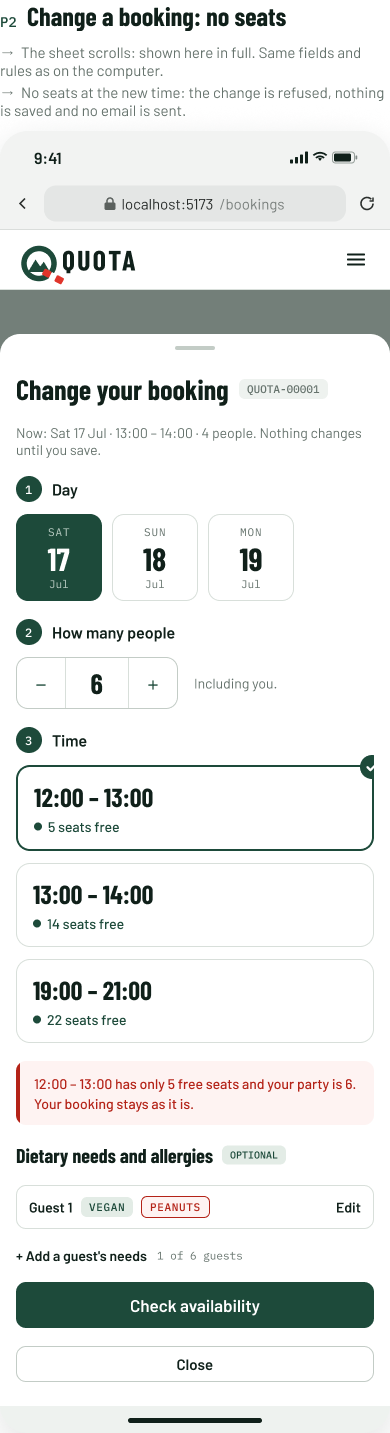
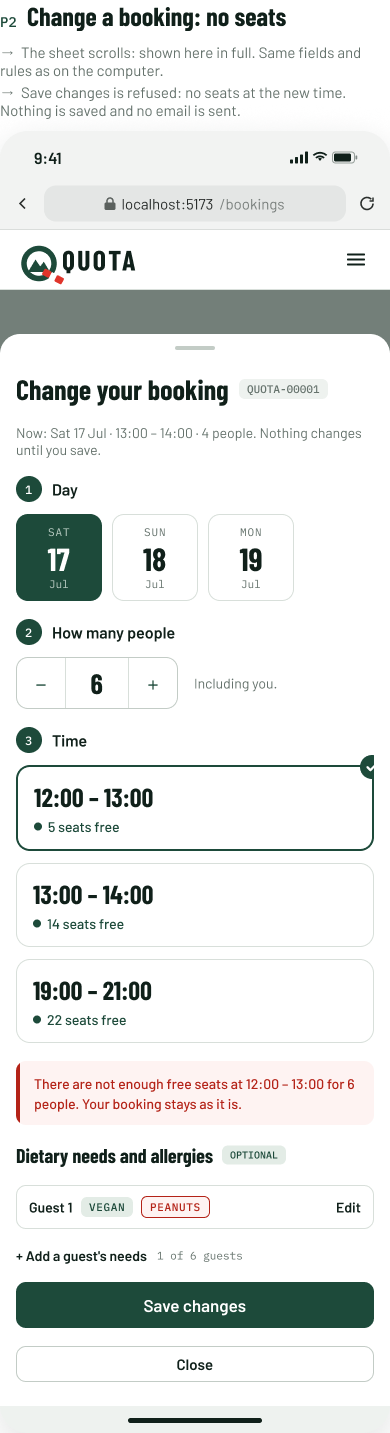
fix: lots of allergies/diets view, smaller messages

diff --git a/docs/mockups/hiker-booking-page/README.md b/docs/mockups/hiker-booking-page/README.md
@@ -23,28 +23,31 @@ Everything shown comes from the story or from the product owner's clarifications
 |---|---|
 | Story MH-06 | The hiker can change the day, the time, the party size or the requirements (dietary needs and allergies) of a booking. |
 | Product owner | Changes are admitted within 48 hours from the date booked. |
-| Product owner | A change of the party size is subject to the automatic verification of availability. |
+| Product owner | A change of the party size is subject to the automatic verification of availability. The server does it when the change is saved: the party is seated again like a new booking in that slot, and the seats of the booking count as free, so it can keep them (product owner, [#38](https://github.com/SE2-Polito/AY26-27-Mountain-Hut/issues/38)). |
 | Story MH-08 | The hiker can cancel a booking, so the places are available to other guests. |
 | Product owner | There are no time constraints: a hiker can cancel a reservation at any time. |
 | Team decision (confirmed by the product owner) | The 48 hours are counted back from the booked time: a booking on 27/09 from 13:00 to 14:00 can be changed until 13:00 on 25/09. |
 | Team decision (confirmed by the product owner) | The dietary needs follow the same 48 hours as every other change. |
-| Team decision | The 48 hours count twice: before the time of the current booking (the hiker can open *Edit*) and before the time of the new booking (the hiker can choose it). The new day and time must start at least 48 hours from now, so a change cannot move a booking inside the 48 hours. It replaces the 2-hour limit of a new booking ([#7](https://github.com/SE2-Polito/AY26-27-Mountain-Hut/issues/7)), which does not apply to changes. |
+| Product owner (as the team reports it) | The 48 hours count twice: before the time of the current booking (the hiker can change it) and before the time of the new booking (the hiker can choose it). The new day and time must start at least 48 hours from now. The 2-hour limit of a new booking ([#7](https://github.com/SE2-Polito/AY26-27-Mountain-Hut/issues/7)) does not apply to changes. |
 | Team decision | Until a change is confirmed the old booking stays as it is. If the change fails, nothing changes. |
 | Team decision | The page lists only the bookings of the hiker, from today on, that are not cancelled. Past and cancelled bookings are not listed. |
-| Team decision | The system chooses the tables for the new day, time or party size, as when a hiker books ([booking mockup](../booking/README.md)). |
+| Team decision | There is **no availability check before saving**: the server has no preview for a change. *Save changes* works, or it is refused and nothing changes. The server chooses the tables for the new day, time or party size, and the hiker does not see them before saving. A change of the dietary needs only does not check the seats and keeps the tables. |
+| Backend ([PR #94](https://github.com/SteAlve/SE2-project-team16-mountain-hut/pull/94)) | `GET /api/bookings` lists the bookings of the hiker, and `PATCH /api/bookings/:bookingId` changes one (`slotId`, `partySize` and `requirements`, one or more of them). The API for the cancellation comes with MH-08. |
 | Team decision (confirmed by the product owner) | A saved change and a confirmed cancellation are emailed to the hiker ([emails mockup](../emails/README.md), emails 3 and 4). A failed change sends no email. |
 
 ## The flow
 
 1. **My bookings** (screen 1) lists the upcoming bookings in date order. Each booking shows the day, the time, the booking reference, how many people, the tables, the dietary needs and two buttons: *Edit* and *Cancel booking*. A booking that can still be changed says "Change until *day* · *time*". When the 48 hours have passed, *Edit* is faded and the line says "Changes closed on *day* · *time*"; *Cancel booking* still works. A hiker with no upcoming bookings sees a message and a *Book a table* button (screen 2).
 2. **Edit** opens the *Change your booking* dialog on top of the list (screen 3). It has the booking filled in, with the same three steps as *Book a table*: **Day**, **How many people** and **Time**. On the right, *After the change* shows the new day, time and people, and under it the **Dietary needs and allergies**. Nothing changes until the hiker saves. The new day and time must start at least 48 hours from now, like the booking being changed.
-3. **Check availability.** When the day, the time or the people change, the button of the dialog is *Check availability*. The page asks the server for the seating of the new choice:
-   - There is room (screen 4): the new seating is shown, like on *Book a table*, with a blue note. The button becomes *Save changes*.
-   - There is no room (screen 5): a red note says which time is full. The booking stays as it is, and the hiker can choose another time or close the dialog.
-4. **Dietary needs** (screens 6 and 7). *+ Add a guest's needs* and *Edit* on a guest line open the same editor as [MH-05](../dietary/README.md) inside the dialog. The dialog is wider to fit it (screen 6). When only the dietary needs change, no availability check is needed: the button is *Save changes* straight away and the tables stay the same (screen 7).
-5. **Save changes** applies the change. The dialog closes and the list shows the new details with a green note (screen 8). The hiker is emailed the new details.
-6. **Cancel booking** asks to confirm, with the same dialog as *Log out* (screen 9): "Cancel this booking?" with *Keep booking* and *Cancel booking*. It is open at any time, also on a booking whose *Edit* is faded.
-7. **Confirming** frees the seats for other guests. The booking leaves the list at once and a green note says so (screen 10). The hiker is emailed a confirmation.
+3. **Save changes** sends the change. There is no availability check before it. It works, or it is refused and nothing changes, and the old booking stays as it is:
+   - No seats (screen 4, `409` `NO_SEATS`): a red note says the new time cannot hold the party. The hiker can pick another time or close the dialog.
+   - Already booked (screen 5, `422`): the hiker already has a booking for the new day and time.
+   - Changes closed (screen 6, `422`): the 48 hours passed, or the new time starts in less than 48 hours.
+   - Changed meanwhile (screen 7, `409` `BOOKING_CHANGED`): the same booking was changed at the same moment. The hiker reloads it and tries again.
+4. **Dietary needs** (screens 8 and 9). *+ Add a guest's needs* and *Edit* on a guest line open the same editor as [MH-05](../dietary/README.md) inside the dialog. The dialog is wider to fit it (screen 8). When only the dietary needs change, the seats are not checked and the tables stay the same (screen 9).
+5. When the change is saved, the dialog closes and the list shows the new details with a green note (screen 10). The hiker is emailed the new details.
+6. **Cancel booking** asks to confirm, with the same dialog as *Log out* (screen 11): "Cancel this booking?" with *Keep booking* and *Cancel booking*. It is open at any time, also on a booking whose *Edit* is faded.
+7. **Confirming** frees the seats for other guests. The booking leaves the list at once and a green note says so (screen 12). The hiker is emailed a confirmation.
 
 ## Screens
 
@@ -53,13 +56,15 @@ Everything shown comes from the story or from the product owner's clarifications
 | 1 | My bookings: the first booking is past the 48 hours, *Edit* is faded | ![My bookings](01-my-bookings.png) |
 | 2 | No upcoming bookings | ![No upcoming bookings](02-no-upcoming-bookings.png) |
 | 3 | Change a booking: the dialog with the booking filled in | ![Change a booking](03-change-a-booking.png) |
-| 4 | Seats available for the change | ![Seats available](04-seats-available.png) |
-| 5 | No seats for the change | ![No seats](05-no-seats.png) |
-| 6 | Adding or editing a guest's needs | ![Guest needs](06-guest-needs.png) |
-| 7 | Change only the dietary needs | ![Only dietary needs](07-change-only-dietary-needs.png) |
-| 8 | Booking changed | ![Booking changed](08-booking-changed.png) |
-| 9 | Cancel a booking | ![Cancel a booking](09-cancel-a-booking.png) |
-| 10 | Booking cancelled | ![Booking cancelled](10-booking-cancelled.png) |
+| 4 | No seats for the change (`409`, `NO_SEATS`) | ![No seats](04-no-seats.png) |
+| 5 | Already booked in the new time (`422`) | ![Already booked](05-already-booked.png) |
+| 6 | Changes are closed (`422`) | ![Changes closed](06-changes-closed.png) |
+| 7 | Booking changed meanwhile (`409`, `BOOKING_CHANGED`) | ![Changed meanwhile](07-changed-meanwhile.png) |
+| 8 | Adding or editing a guest's needs | ![Guest needs](08-guest-needs.png) |
+| 9 | Change only the dietary needs | ![Only dietary needs](09-change-only-dietary-needs.png) |
+| 10 | Booking changed | ![Booking changed](10-booking-changed.png) |
+| 11 | Cancel a booking | ![Cancel a booking](11-cancel-a-booking.png) |
+| 12 | Booking cancelled | ![Booking cancelled](12-booking-cancelled.png) |
 
 ### On a phone
 
@@ -78,7 +83,7 @@ This is the same website in a phone browser, not a separate app. Below 992 px (r
 | 3 | Cancel a booking | ![Cancel a booking on a phone](phone/03-cancel-a-booking.png) |
 | 4 | Booking changed | ![Booking changed on a phone](phone/04-booking-changed.png) |
 
-The sheet has the same steps and rules as desktop screens 3 to 7, and the dietary needs editor is the phone one of [MH-05](../dietary/README.md).
+The sheet has the same steps and rules as desktop screens 3 to 9, and the dietary needs editor is the phone one of [MH-05](../dietary/README.md).
 
 ## Fields and rules
 
@@ -90,7 +95,7 @@ The sheet has the same steps and rules as desktop screens 3 to 7, and the dietar
 | Day, time | The day (*THU 15 Jul*) and the time of the slot (*12:00 – 13:00*). |
 | Reference | `QUOTA-` + the booking id in 5 digits, as in the confirmation email. |
 | People and tables | How many people, and the tables with their seats (*T3 · 4*). |
-| Dietary needs | One chip per need. "No dietary needs" when the booking has none. |
+| Dietary needs | One chip per need. "No dietary needs" when the booking has none. When there are many, a black **+*N*** chip shows how many are not listed: on a phone with more than 2 needs (the first 2 are shown), on a computer when the chips do not fit on one line. |
 | Edit | Open until 48 hours before the start of the slot. After that it is faded and cannot be pressed. |
 | Cancel booking | Always open. |
 | Line under the buttons | Editable: "Change until *Thu 15 Jul · 13:00*". Locked: "Changes closed on *Tue 13 Jul · 12:00*". |
@@ -99,9 +104,9 @@ The sheet has the same steps and rules as desktop screens 3 to 7, and the dietar
 
 | Field | Rule |
 |---|---|
-| Day | The days with slots that start at least 48 hours from now. The current day is chosen. |
-| How many people | From 1. Must fit in the free seats of the time. |
-| Time | A time of that day that starts at least 48 hours from now. Each time says how many seats are free. |
+| Day | Only the days at least 48 hours away. The current day of the booking is chosen. |
+| How many people | From 1. The server checks that the party fits when the change is saved. |
+| Time | A time of that day that starts at least 48 hours from now. Each time says how many seats are free (`GET /api/slots`). |
 | Dietary needs and allergies | Optional, as in [MH-05](../dietary/README.md): one line per group of guests with the same needs, and the guests counted must not be more than the people. |
 
 ## Texts and server answers
@@ -109,18 +114,22 @@ The sheet has the same steps and rules as desktop screens 3 to 7, and the dietar
 | When | What the hiker sees |
 |---|---|
 | Page subtitle | Your upcoming tables. Change a booking until 48 hours before it; cancel at any time. |
-| *Good to know* | You can change a booking until 48 hours before its time. After that you can only cancel. · You can cancel a booking at any time. · Every change or cancellation is emailed to you. |
+| *Good to know* | You can change a booking until 48 hours before its time. · You can only change to a time that starts at least 48 hours from now. · You can cancel a booking at any time. · Every change or cancellation is emailed to you. |
 | No bookings | **No upcoming bookings.** Tables you book will appear here, from today on. Cancelled and past bookings are not listed. Button: *Book a table*. |
-| Dialog | **Change your booking** and the reference. "Now: Sat 17 Jul · 13:00 – 14:00 · 4 people. Nothing changes until you save." Buttons: *Close*, *Check availability*. |
-| Footer of the dialog | Before the check: "Your booking has not changed." For dietary needs only: "Day, time and tables unchanged." |
-| Seats available | Blue note: "*N* seats are free at *HH:MM* – *HH:MM*. Save to apply the change; we will email you the new details." Button: *Save changes*. |
-| No seats (`409`, `NO_SEATS`) | Red note: "*HH:MM* – *HH:MM* has only *N* free seats and your party is *M*. Your booking stays as it is." Nothing is saved and no email is sent. |
+| Dialog | **Change your booking** and the reference. "Now: Sat 17 Jul · 13:00 – 14:00 · 4 people. Nothing changes until you save." Buttons: *Close*, *Save changes*. |
+| Footer of the dialog | "Nothing is saved yet." For dietary needs only: "Day, time and tables unchanged." |
+| Tables | In *After the change*: "Chosen when you save". The server picks the tables. |
+| No seats (`409`, `NO_SEATS`) | Red note: "There are not enough free seats at *HH:MM* – *HH:MM* for *N* people. Your booking stays as it is." Nothing is saved and no email is sent. |
+| Already booked (`422`) | Red note: "You already have a booking for this slot. Choose another day or time." (the server message). Every choice is kept. |
+| Changes closed (`422`) | Red note: "Bookings can be changed until 48 hours before the meal. Your booking stays as it is." (the server message, then the line). The same answer comes when the new time starts in less than 48 hours. |
+| Changed meanwhile (`409`, `BOOKING_CHANGED`) | Red note: "This booking was changed in the meantime. Reload it and try again." |
 | Only dietary needs changed | Blue note: "Only the dietary needs changed. No availability check is needed and your tables stay the same." Button: *Save changes*. |
 | Changed | Green note on the list: "Booking *QUOTA-00001* changed. We emailed you the new details." |
-| Past the 48 hours | *Edit* is faded and the line says when changes closed. |
+| Past the 48 hours | *Edit* is faded and the line says when changes closed. Also `PATCH` answers `422` (screen 6). |
 | Cancel dialog | **Cancel this booking?** "Your table for 4 on Sat 17 Jul, 13:00 – 14:00 will be freed for other guests. We will email you a confirmation." Buttons: *Keep booking*, *Cancel booking*. |
 | Cancelled | Green note on the list: "Booking *QUOTA-00001* cancelled. We emailed you a confirmation." |
 | Not logged in (`401`) | The login page (login mockup, screen 4). |
+| Booking or slot not found (`404`) | Something went wrong on our side. Try again in a minute. |
 | Server or network down | Something went wrong on our side. Try again in a minute. |
 
 ## Left out on purpose
@@ -133,9 +142,7 @@ These belong to other stories or were not asked for:
 
 ## Open questions
 
-- **The API.** The endpoints to list, change and cancel a booking are not decided yet. The mockup does not show any.
-- **The times inside the 48 hours.** The mockup does not show how the day strip and the time list look when a time cannot be chosen because it starts in less than 48 hours (disabled, hidden, or with a note). The days and times of the screens are examples.
-- **The 48 hours passing between the page and the save.** The mockup has no message for it, because nobody has said what the hiker should see.
-- **The tables changing between the check and the save** (`TABLES_CHANGED` in MH-01). The mockup does not show it for a change.
+- **The cancellation API.** `GET /api/bookings` and `PATCH /api/bookings/:bookingId` are decided ([PR #94](https://github.com/SteAlve/SE2-project-team16-mountain-hut/pull/94)). The endpoint to cancel comes with MH-08.
+- **The times inside the 48 hours.** The mockup does not show how a time that starts in less than 48 hours looks in the time list. The day strip offers only days at least 48 hours away. The days and times of the screens are examples.
 
 Sample data (hut, names, references, dates, tables) is invented for the mockup.
